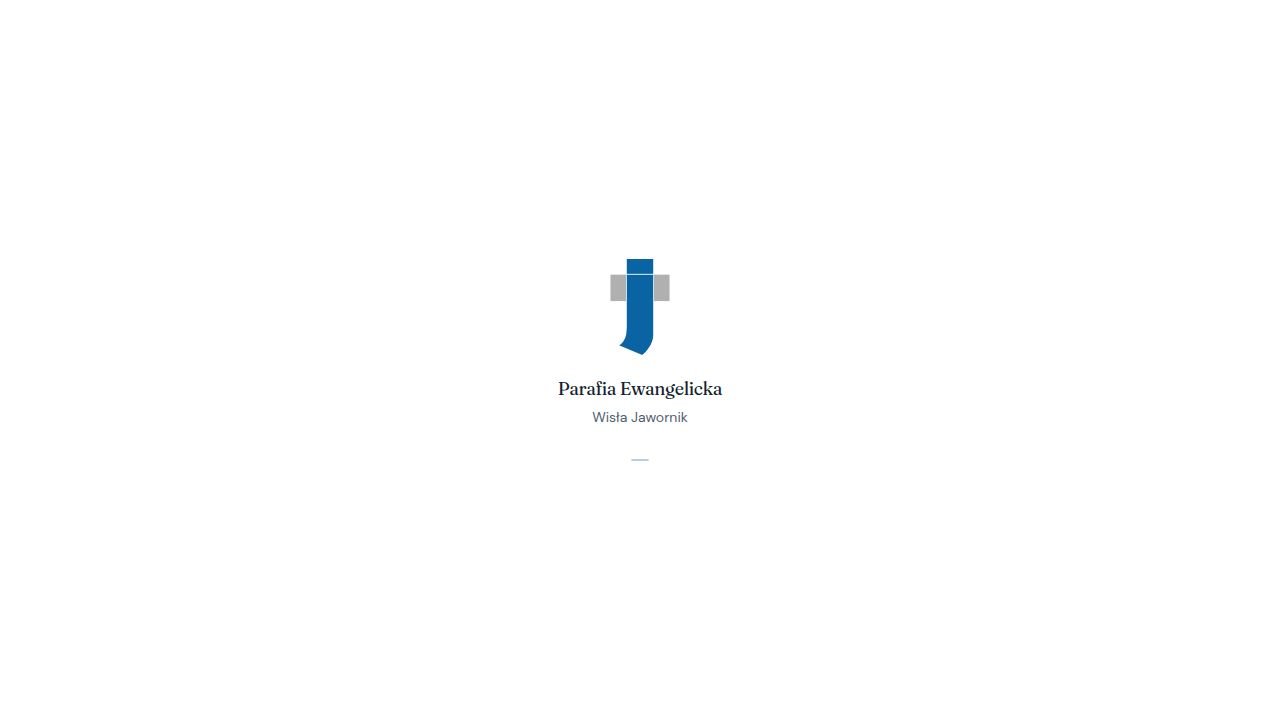
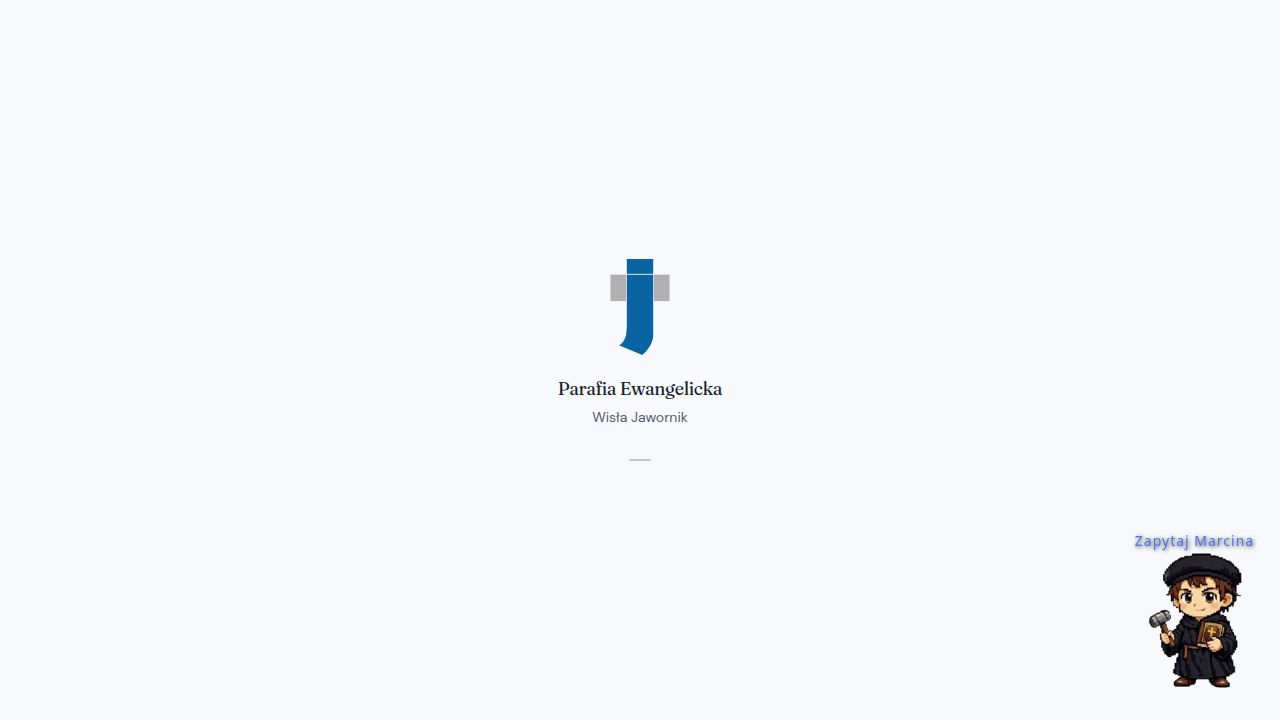
Default to light mode — dark mode only when manually toggled

Changed region(s): [[0.875, 0.7333, 1.0, 0.9778]]

diff --git a/client/src/components/accessibility-panel.tsx b/client/src/components/accessibility-panel.tsx
@@ -38,7 +38,7 @@ function getInitialDarkMode(): boolean {
     const stored = localStorage.getItem(DARK_KEY);
     if (stored !== null) return stored === "true";
   } catch {}
-  return window.matchMedia("(prefers-color-scheme: dark)").matches;
+  return false;
 }
 
 function applyDarkMode(dark: boolean) {
